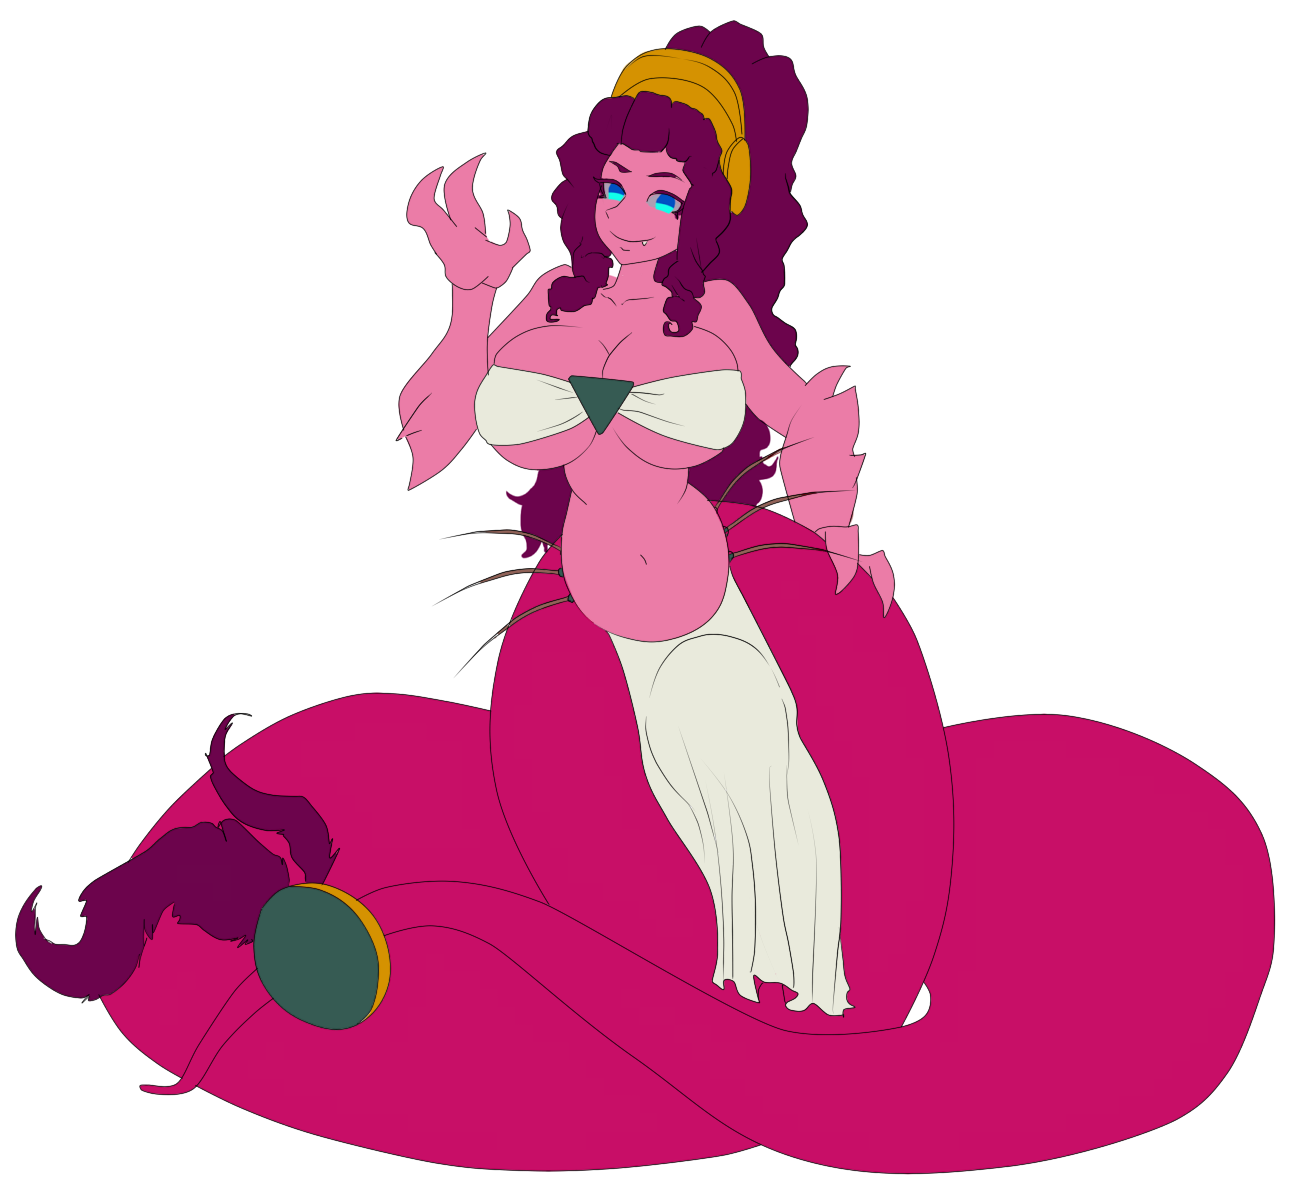
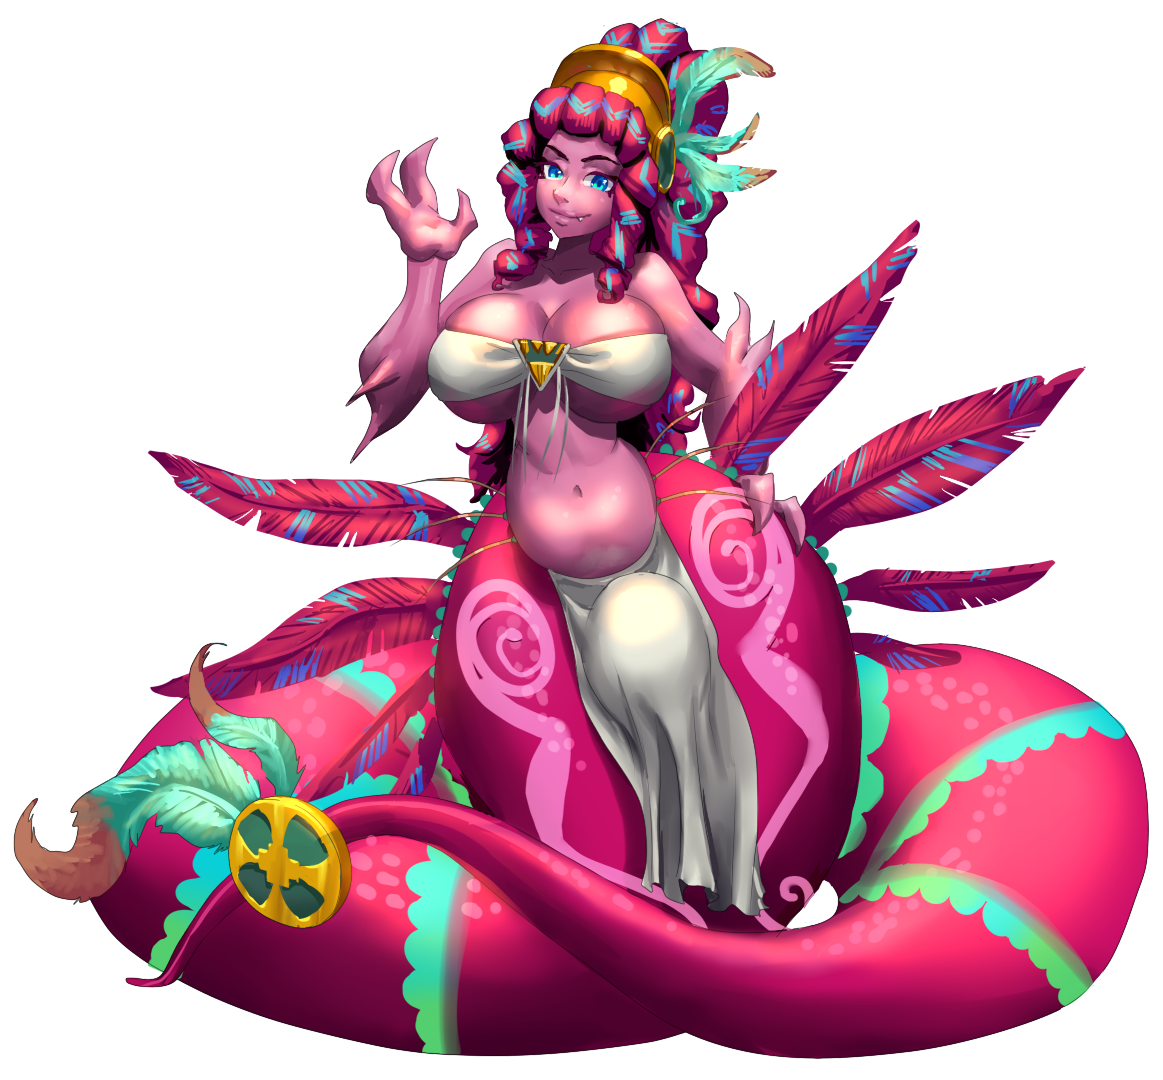
Updated Quetzal art and added Quetzal area BG.

diff --git a/core/src/com/majalis/character/EnemyEnum.java b/core/src/com/majalis/character/EnemyEnum.java
@@ -65,7 +65,7 @@ public enum EnemyEnum {
     	}
 		return textures;
 	}
-    protected String getBGPath() { return this == OGRE ? AssetEnum.FOREST_UP_BG.getPath() : this == NAGA || this == SPIDER ? AssetEnum.CAVE_BG.getPath() : this == CENTAUR || this == UNICORN ? AssetEnum.PLAINS_BG.getPath() : this == ANGEL || this == QUETZAL ? AssetEnum.CELESTIAL_BG.getPath() : this == GOBLIN || this == GOBLIN_MALE ? AssetEnum.ENCHANTED_FOREST_BG.getPath() : AssetEnum.FOREST_BG.getPath(); } 
+    protected String getBGPath() { return this == OGRE ? AssetEnum.FOREST_UP_BG.getPath() : this == NAGA || this == SPIDER ? AssetEnum.CAVE_BG.getPath() : this == CENTAUR || this == UNICORN ? AssetEnum.PLAINS_BG.getPath() : this == ANGEL ? AssetEnum.CELESTIAL_BG.getPath() : this == QUETZAL ? AssetEnum.QUETZAL_BG.getPath() : this == GOBLIN || this == GOBLIN_MALE ? AssetEnum.ENCHANTED_FOREST_BG.getPath() : AssetEnum.FOREST_BG.getPath(); } 
     // there should be another method that accepts an assetManager and returns the actual maps
     public ObjectMap<String, Array<String>> getImagePaths() { 
     	ObjectMap<String, Array<String>> textureImagePaths = new ObjectMap<String, Array<String>>();

diff --git a/core/src/com/majalis/battle/BattleCode.java b/core/src/com/majalis/battle/BattleCode.java
@@ -34,7 +34,7 @@ public enum BattleCode {
 	BUNNY(AssetEnum.BOSS_MUSIC, EnemyEnum.BUNNY, BUNNY_CREAM, BUNNY_VANILLA, BUNNY_CARAMEL, BUNNY_CHOCOLATE, BUNNY_DARK_CHOCOLATE, FOREST_BG, LARGE_DONG_0, LARGE_DONG_1, LARGE_DONG_2), 
 	ANGEL(AssetEnum.ANGEL_MUSIC, EnemyEnum.ANGEL, AssetEnum.ANGEL, CELESTIAL_BG, NULL),
 	NAGA(AssetEnum.HEAVY_MUSIC, EnemyEnum.NAGA, AssetEnum.NAGA, CAVE_BG, MONSTER_DONG_0, MONSTER_DONG_1, MONSTER_DONG_2), 
-	QUETZAL(AssetEnum.HEAVY_MUSIC, EnemyEnum.QUETZAL, AssetEnum.QUETZAL, CELESTIAL_BG, MONSTER_DONG_0, MONSTER_DONG_1, MONSTER_DONG_2)
+	QUETZAL(AssetEnum.HEAVY_MUSIC, EnemyEnum.QUETZAL, AssetEnum.QUETZAL, QUETZAL_BG, MONSTER_DONG_0, MONSTER_DONG_1, MONSTER_DONG_2)
 	;
 	
 	private final AssetEnum music;

diff --git a/core/src/com/majalis/asset/AssetEnum.java b/core/src/com/majalis/asset/AssetEnum.java
@@ -61,6 +61,7 @@ public enum AssetEnum {
 	CABIN_BACKGROUND("backgrounds/WoodsCottage.jpg"),
 	BURNING_FORT_BG("backgrounds/BurningFort.jpg"),
 	TOWN_BG("backgrounds/TownBG.jpg"),
+	QUETZAL_BG("backgrounds/QuetzalBG.jpg"),
 
 	SKILL_TITLE("backgrounds/SkillSelect/SkillsTitle.png"),
 	MAGIC_TITLE("backgrounds/SkillSelect/MagicTitle.png"),
